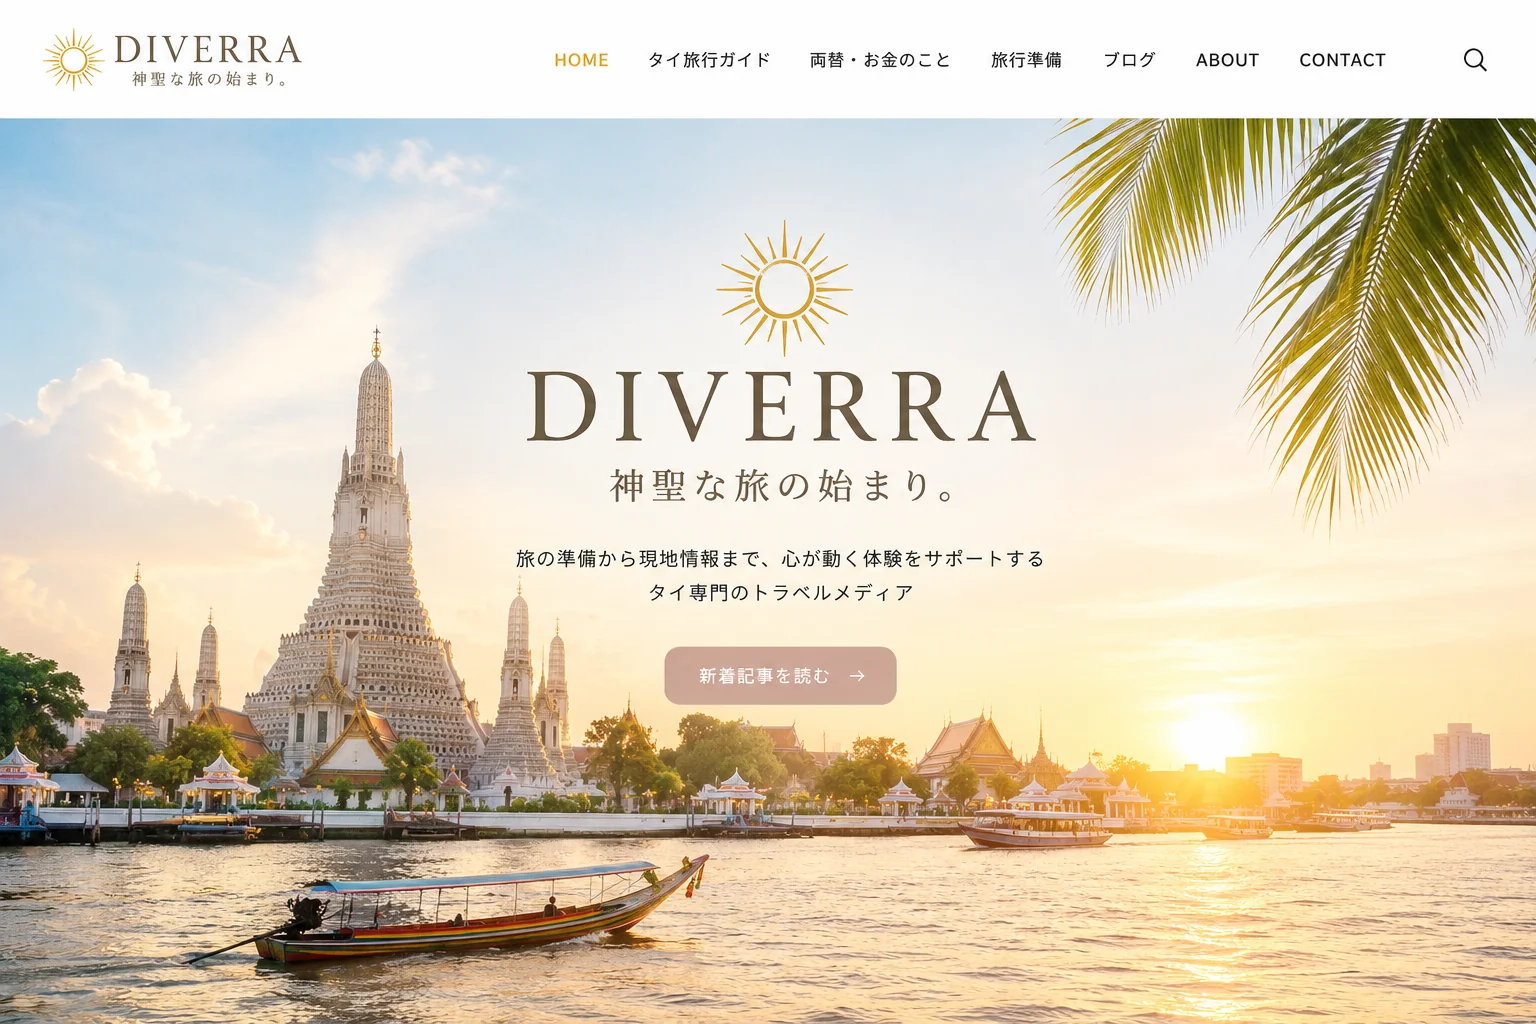
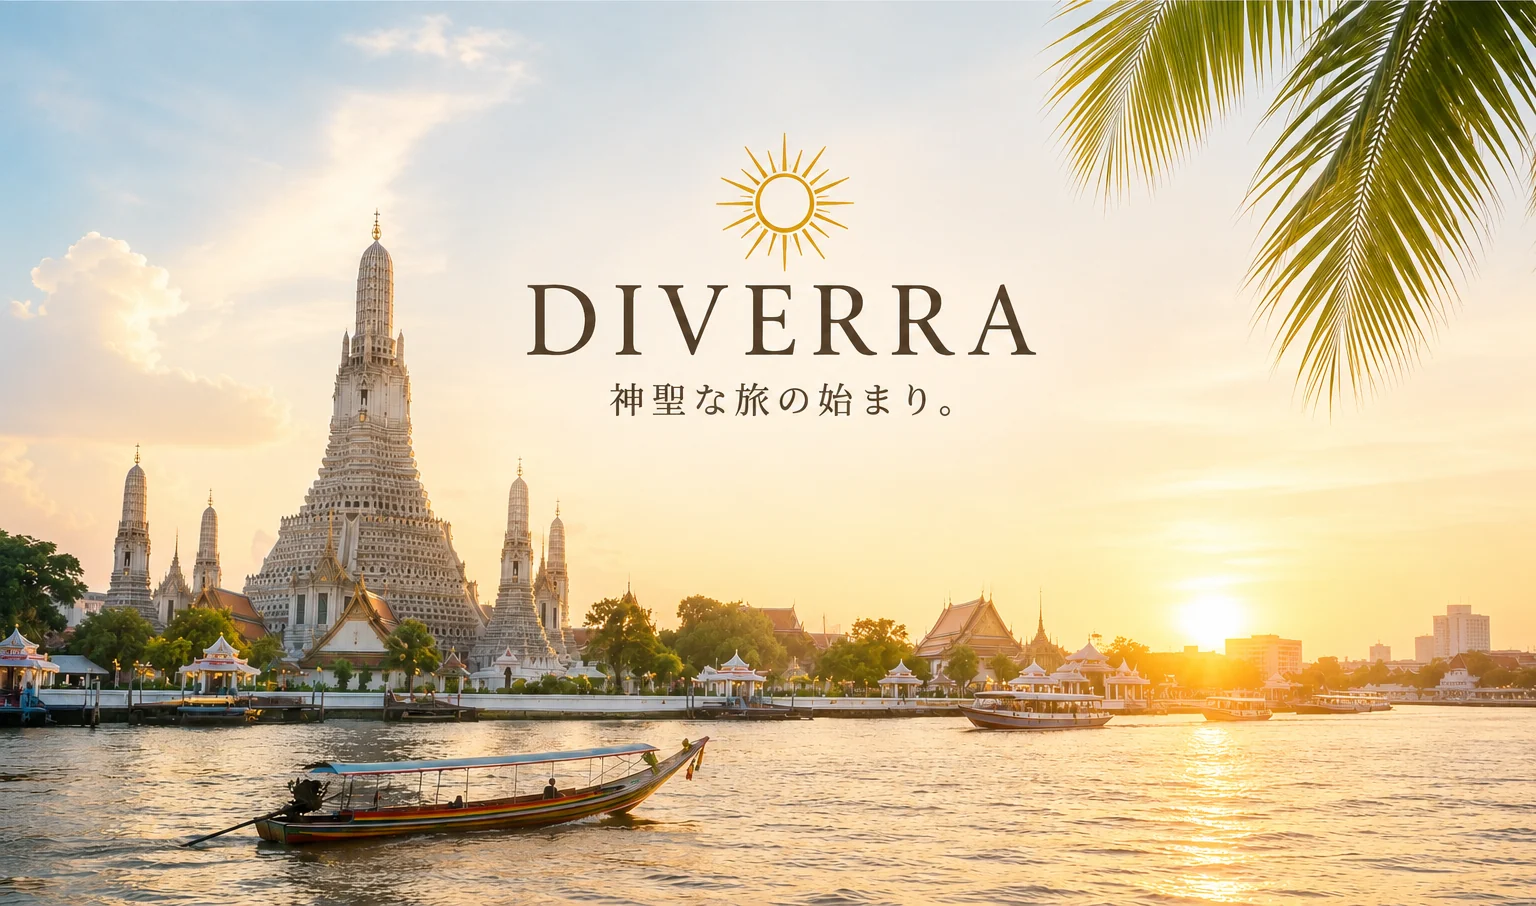
Refine homepage hero header

diff --git a/assets/css/style.css b/assets/css/style.css
@@ -233,34 +233,28 @@ a {
 }
 
 .home-page .diverra-logo {
-  gap: 0.7rem;
+  gap: 0.68rem;
   color: #5e5244;
   font-family: Georgia, "Times New Roman", serif;
-  letter-spacing: 0.16em;
+  letter-spacing: 0.18em;
 }
 
 .home-page .diverra-logo span:last-child {
-  display: grid;
-  gap: 0.05rem;
-  line-height: 1.1;
+  display: block;
+  line-height: 1;
 }
 
 .home-page .diverra-logo strong {
-  font-size: clamp(1.25rem, 2.8vw, 2rem);
+  display: block;
+  font-size: clamp(1.45rem, 2.5vw, 2.15rem);
   font-weight: 500;
-}
-
-.home-page .diverra-logo small {
-  color: #7d705f;
-  font-family: "Hiragino Mincho ProN", "Yu Mincho", serif;
-  font-size: clamp(0.65rem, 1.5vw, 0.92rem);
-  letter-spacing: 0.12em;
 }
 
 .home-page .logo-mark {
   position: relative;
-  width: 2.55rem;
-  height: 2.55rem;
+  flex: 0 0 auto;
+  width: clamp(2.35rem, 3.2vw, 2.85rem);
+  height: clamp(2.35rem, 3.2vw, 2.85rem);
   border: 0;
   border-radius: 999px;
   color: var(--gold);
@@ -311,8 +305,40 @@ a {
 }
 
 .home-page .nav-search {
-  font-size: 1.45rem;
+  display: inline-grid;
+  width: 2.9rem;
+  height: 2.9rem;
+  place-items: center;
+  padding: 0;
   line-height: 1;
+}
+
+.home-page .search-icon {
+  position: relative;
+  display: block;
+  width: 1.35rem;
+  height: 1.35rem;
+}
+
+.home-page .search-icon::before {
+  position: absolute;
+  inset: 0.08rem 0.24rem 0.24rem 0.08rem;
+  border: 2.25px solid currentColor;
+  border-radius: 999px;
+  content: "";
+}
+
+.home-page .search-icon::after {
+  position: absolute;
+  right: 0.05rem;
+  bottom: 0.08rem;
+  width: 0.52rem;
+  height: 2.25px;
+  border-radius: 999px;
+  background: currentColor;
+  content: "";
+  transform: rotate(45deg);
+  transform-origin: center;
 }
 
 .diverra-home-hero {
@@ -353,11 +379,11 @@ a {
 .diverra-hero-content {
   position: absolute;
   left: 50%;
-  top: 63.5%;
+  top: 66.2%;
   z-index: 2;
   display: grid;
   justify-items: center;
-  width: min(320px, calc(100% - 40px));
+  width: min(240px, calc(100% - 40px));
   padding: 0;
   color: #554a3d;
   text-align: center;
@@ -366,24 +392,6 @@ a {
 
 .diverra-hero-content::before {
   content: none;
-}
-
-.diverra-hero-content .hero-actions {
-  justify-content: center;
-  margin-top: 0;
-}
-
-.diverra-hero-content .button.primary {
-  border-color: rgba(129, 87, 62, 0.16);
-  color: #fff;
-  background: #c7a198;
-  box-shadow: 0 16px 34px rgba(94, 82, 68, 0.16);
-}
-
-.diverra-hero-content .button.secondary {
-  border-color: rgba(94, 82, 68, 0.22);
-  color: #5e5244;
-  background: rgba(255, 255, 255, 0.78);
 }
 
 .diverra-home-hero .home-hero {
@@ -1434,12 +1442,7 @@ p {
   }
 
   .diverra-hero-content {
-    top: 66%;
+    top: 66.2%;
     width: min(240px, calc(100% - 48px));
-  }
-
-  .diverra-hero-content .button.primary {
-    width: 100%;
-    justify-content: center;
   }
 }

diff --git a/index.html b/index.html
@@ -34,7 +34,7 @@
     <div class="header-inner">
       <a class="logo diverra-logo" href="index.html" aria-label="DIVERRA ホームへ">
         <span class="logo-mark" aria-hidden="true"></span>
-        <span><strong>DIVERRA</strong><small>神聖な旅の始まり。</small></span>
+        <span><strong>DIVERRA</strong></span>
       </a>
       <button class="nav-toggle" type="button" aria-label="メニューを開く" aria-expanded="false"><span></span></button>
       <nav class="site-nav" aria-label="グローバルナビ">
@@ -45,7 +45,7 @@
         <a href="reports/index.html">ブログ</a>
         <a href="about.html">ABOUT</a>
         <a href="contact.html">CONTACT</a>
-        <a class="nav-search" href="#latest" aria-label="最新記事へ">⌕</a>
+        <a class="nav-search" href="#latest" aria-label="最新記事へ"><span class="search-icon" aria-hidden="true"></span></a>
       </nav>
     </div>
   </header>
@@ -55,14 +55,11 @@
       <div class="diverra-hero-media">
         <picture>
           <source srcset="assets/images/diverra-sacred-temple-river-hero.webp" type="image/webp">
-          <img src="assets/images/diverra-sacred-temple-river-hero.webp" alt="DIVERRA 神聖な旅の始まりを表現したタイの寺院と川のヒーロー画像" width="1536" height="1024" loading="eager" decoding="async">
+          <img src="assets/images/diverra-sacred-temple-river-hero.webp" alt="DIVERRA 神聖な旅の始まりを表現したタイの寺院と川のヒーロー画像" width="1536" height="906" loading="eager" decoding="async">
         </picture>
         <div class="diverra-hero-shade" aria-hidden="true"></div>
         <div class="diverra-hero-content">
           <h1 class="sr-only">DIVERRA 神聖な旅の始まり。</h1>
-          <div class="hero-actions">
-            <a class="button primary" href="#latest">新着記事を読む</a>
-          </div>
         </div>
       </div>
       <div class="container portal-hero home-hero">
